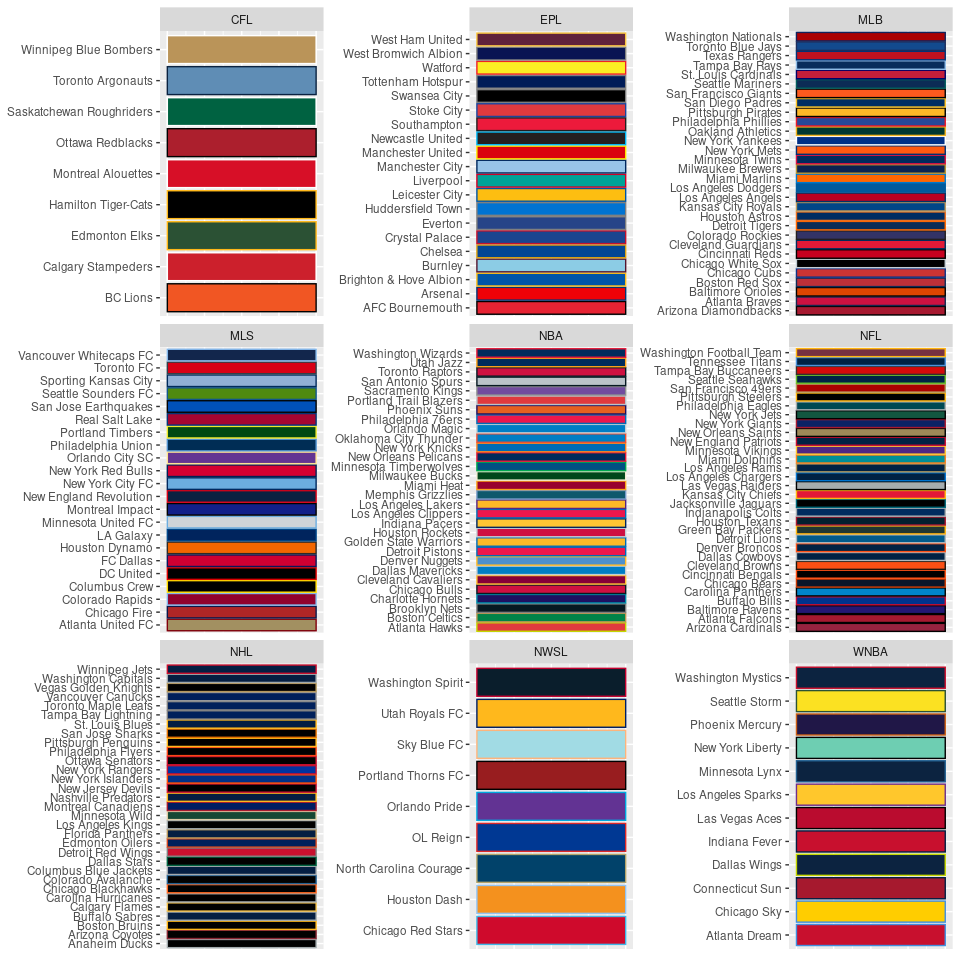
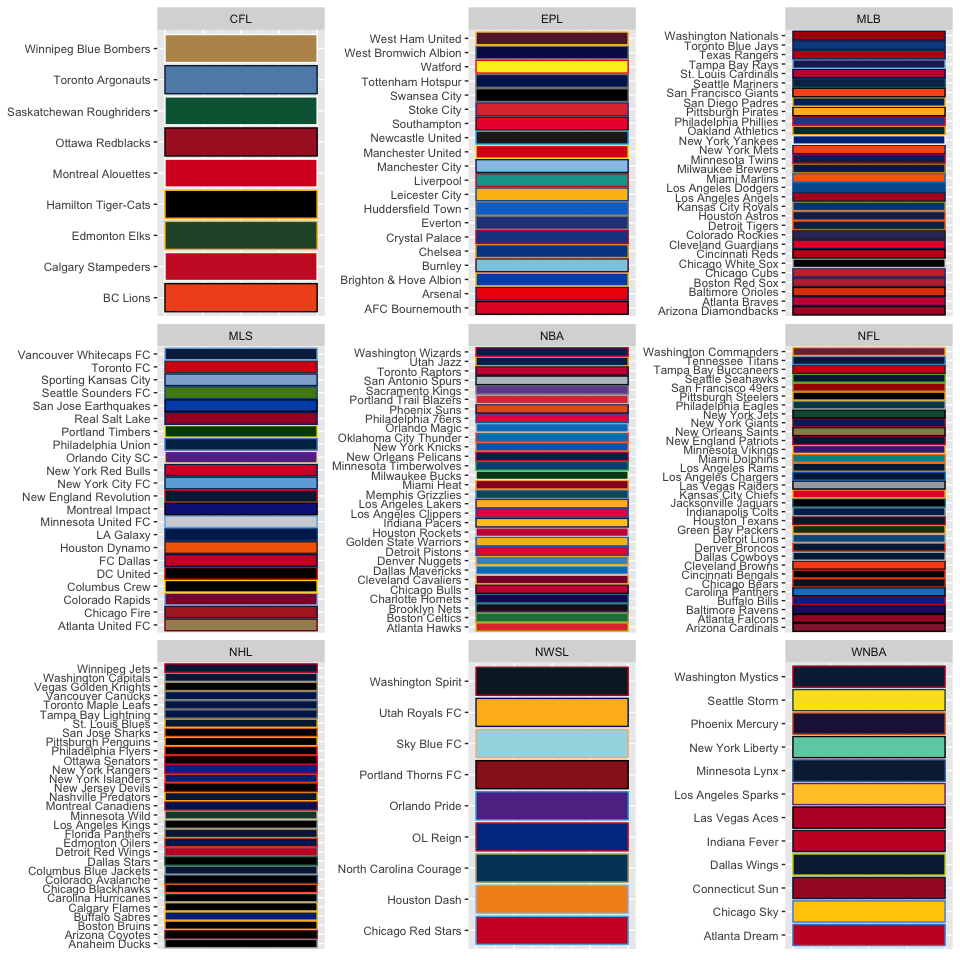
Updated the readme.

diff --git a/README.md b/README.md
@@ -40,16 +40,15 @@ head(teamcolors)
 ```
 
     ## # A tibble: 6 × 11
-    ##   name     league primary secon…¹ terti…² quate…³ divis…⁴ locat…⁵ mascot sport…⁶
-    ##   <chr>    <chr>  <chr>   <chr>   <chr>   <chr>   <chr>   <chr>   <chr>  <chr>  
-    ## 1 A&M-Cor… ncaa   #0067C5 #007F3E <NA>    <NA>    Southl… A&M-Co… Chris… A&M-Co…
-    ## 2 AFC Bou… epl    #e62333 #000000 <NA>    <NA>    <NA>    AFC     Bourn… AFC Bo…
-    ## 3 Abilene… ncaa   #461D7C #FFFFFF <NA>    <NA>    WAC     Abilene Chris… Abilen…
-    ## 4 Air For… ncaa   #003087 #8A8D8F #B1B3B3 #FFC72C MWC     Air Fo… <NA>   Air Fo…
-    ## 5 Akron    ncaa   #041E42 #A89968 <NA>    <NA>    MAC     Akron   <NA>   Akron  
-    ## 6 Alabama  ncaa   #9E1B32 #828A8F #FFFFFF <NA>    SEC     Alabama <NA>   Alabama
-    ## # … with 1 more variable: logo <chr>, and abbreviated variable names
-    ## #   ¹secondary, ²tertiary, ³quaternary, ⁴division, ⁵location, ⁶sportslogos_name
+    ##   name     league primary secondary tertiary quaternary division location mascot
+    ##   <chr>    <chr>  <chr>   <chr>     <chr>    <chr>      <chr>    <chr>    <chr> 
+    ## 1 A&M-Cor… ncaa   #0067C5 #007F3E   <NA>     <NA>       Southla… A&M-Cor… Chris…
+    ## 2 AFC Bou… epl    #e62333 #000000   <NA>     <NA>       <NA>     AFC      Bourn…
+    ## 3 Abilene… ncaa   #461D7C #FFFFFF   <NA>     <NA>       WAC      Abilene  Chris…
+    ## 4 Air For… ncaa   #003087 #8A8D8F   #B1B3B3  #FFC72C    MWC      Air For… <NA>  
+    ## 5 Akron    ncaa   #041E42 #A89968   <NA>     <NA>       MAC      Akron    <NA>  
+    ## 6 Alabama  ncaa   #9E1B32 #828A8F   #FFFFFF  <NA>       SEC      Alabama  <NA>  
+    ## # ℹ 2 more variables: sportslogos_name <chr>, logo <chr>
 
 ## Show palettes
 
@@ -125,8 +124,11 @@ ggplot(pythag, aes(x = wpct, y = exp_wpct, color = name, fill = name)) +
     ## Warning: The `guide` argument in `scale_*()` cannot be `FALSE`. This was deprecated in
     ## ggplot2 3.3.4.
     ## ℹ Please use "none" instead.
+    ## This warning is displayed once every 8 hours.
+    ## Call `lifecycle::last_lifecycle_warnings()` to see where this warning was
+    ## generated.
 
-    ## Warning: ggrepel: 4 unlabeled data points (too many overlaps). Consider
+    ## Warning: ggrepel: 3 unlabeled data points (too many overlaps). Consider
     ## increasing max.overlaps
 
 ![](README_files/figure-gfm/ggplot-1.png)<!-- -->
@@ -163,7 +165,10 @@ show_team_col()
     ## Warning: The `<scale>` argument of `guides()` cannot be `FALSE`. Use "none" instead as
     ## of ggplot2 3.3.4.
     ## ℹ The deprecated feature was likely used in the teamcolors package.
-    ##   Please report the issue at <]8;;https://github.com/beanumber/teamcolors/issueshttps://github.com/beanumber/teamcolors/issues]8;;>.
+    ##   Please report the issue at <https://github.com/beanumber/teamcolors/issues>.
+    ## This warning is displayed once every 8 hours.
+    ## Call `lifecycle::last_lifecycle_warnings()` to see where this warning was
+    ## generated.
 
 ![](README_files/figure-gfm/teamcolors-1.png)<!-- -->
 
@@ -187,7 +192,7 @@ teamcolors %>%
   knitr::include_graphics()
 ```
 
-![](https://content.sportslogos.net/logos/9/5119/thumbs/511960002015.gif)<!-- -->![](https://content.sportslogos.net/logos/7/166/thumbs/919.gif)<!-- -->![](https://content.sportslogos.net/logos/1/19/thumbs/1939112018.gif)<!-- -->![](https://content.sportslogos.net/logos/7/152/thumbs/15291162019.gif)<!-- -->![](https://content.sportslogos.net/logos/6/216/thumbs/2nn48xofg0hms8k326cqdmuis.gif)<!-- -->![](https://content.sportslogos.net/logos/16/309/thumbs/30978362020.gif)<!-- -->![](https://content.sportslogos.net/logos/54/67/thumbs/m01gfgeorgvbfw15fy04alujm.gif)<!-- -->![](https://content.sportslogos.net/logos/1/20/thumbs/144.gif)<!-- -->![](https://content.sportslogos.net/logos/9/1876/thumbs/i9ni847kriagxdlb7xewa6dl8.gif)<!-- -->![](https://content.sportslogos.net/logos/53/68/thumbs/1256.gif)<!-- -->
+![](https://content.sportslogos.net/logos/9/5119/thumbs/511960002015.gif)<!-- -->![](https://content.sportslogos.net/logos/7/166/thumbs/919.gif)<!-- -->![](https://content.sportslogos.net/logos/1/19/thumbs/1939112018.gif)<!-- -->![](https://content.sportslogos.net/logos/7/152/thumbs/15274172024.gif)<!-- -->![](https://content.sportslogos.net/logos/6/216/thumbs/21671702024.gif)<!-- -->![](https://content.sportslogos.net/logos/16/309/thumbs/30978362020.gif)<!-- -->![](https://content.sportslogos.net/logos/54/67/thumbs/m01gfgeorgvbfw15fy04alujm.gif)<!-- -->![](https://content.sportslogos.net/logos/1/20/thumbs/144.gif)<!-- -->![](https://content.sportslogos.net/logos/9/1876/thumbs/i9ni847kriagxdlb7xewa6dl8.gif)<!-- -->![](https://content.sportslogos.net/logos/53/68/thumbs/1256.gif)<!-- -->
 
 Note that we don’t have any coverage for the EPL.
 
@@ -209,8 +214,8 @@ teamcolors %>%
     ##  4 mls           22        21
     ##  5 nba           30        30
     ##  6 ncaa         363       235
-    ##  7 nfl           32        31
-    ##  8 nhl           31        31
+    ##  7 nfl           32        32
+    ##  8 nhl           31        30
     ##  9 nwsl           9         7
     ## 10 wnba          12        12
 
